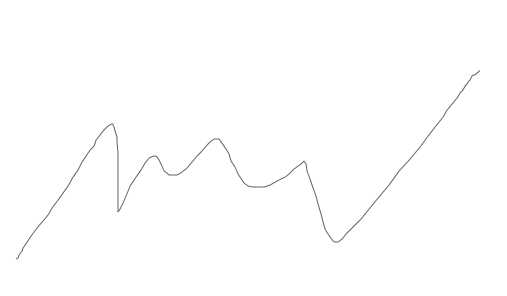
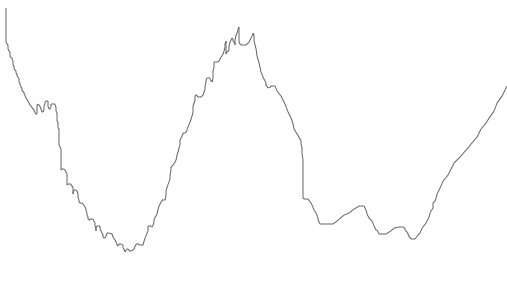
LAPERFECTO (ALMOSTWORKING) PROJECT 10

diff --git a/Linar_Sharads/UserGraphShow/KoefGraphOutput.xaml b/Linar_Sharads/UserGraphShow/KoefGraphOutput.xaml
@@ -8,35 +8,32 @@
        
         xmlns:local="clr-namespace:UserGraphShow"
         mc:Ignorable="d"
-        Title="KoefGraphOutput" Height="446" Width="726" >
-    <Grid Margin="0,0,-6,0">
+        Title="KoefGraphOutput"  >
+    <Window.Resources>
+
+        <Style x:Key="LineDataPointStyle1" TargetType="{x:Type DVC:LineDataPoint}">
+            <Setter Property="Width" Value="0"/>
+            <Setter Property="Height" Value="0"/>
+        </Style>
+
+    </Window.Resources>
+
+    <Grid>
         <Grid.ColumnDefinitions>
-            <ColumnDefinition Width="583*"/>
-            <ColumnDefinition Width="92*"/>
-            <ColumnDefinition Width="51*"/>
+            <ColumnDefinition Width="0*"/>
+            <ColumnDefinition Width="107*"/>
+            <ColumnDefinition Width="119*"/>
+            <ColumnDefinition Width="491*"/>
+            <ColumnDefinition/>
         </Grid.ColumnDefinitions>
-
-
-
-        <DVC:Chart Name="Chart" Background="Yellow" Grid.ColumnSpan="3">
-            <DVC:Chart.Series>
-                <DVC:LineSeries Title=" Your Graph" IndependentValueBinding="{Binding Path=Key}"  DependentValueBinding="{Binding Path=Value}" />
-            </DVC:Chart.Series>
-
-
-            <DVC:Chart.PlotAreaStyle>
-                <Style TargetType="Grid">
-                    <Setter Property="Background" Value="Black" />
-                </Style>
-            </DVC:Chart.PlotAreaStyle>
-
-            <!--<DVC:Chart.Axes>
-                <DVC:LinearAxis Orientation="Y" Minimum="-0,01" Maximum="0,003"/>
-                <DVC:LinearAxis Orientation="X" Maximum="260" Minimum="-5"/>
-                <DVC:LinearAxis Visibility="Hidden"/>
-            </DVC:Chart.Axes>-->
-
+        <DVC:Chart Grid.ColumnSpan="5" >
+          
+            <DVC:LineSeries 
+                        Name="Chart"
+                         IndependentValueBinding="{Binding Path=Key}"  DependentValueBinding="{Binding Path=Value}"
+                     
+                        DataPointStyle="{DynamicResource LineDataPointStyle1}"/>
         </DVC:Chart>
-        <Button x:Name="button" Content="Show" HorizontalAlignment="Left" Margin="8,10,0,0" VerticalAlignment="Top" Width="75" Grid.Column="1" Height="22" Click="button_Click"/>
+        <Button x:Name="button" Content="Button" HorizontalAlignment="Left" Margin="10,10,0,0" VerticalAlignment="Top" Width="75" Click="button_Click" Grid.Column="2" Height="22"/>
     </Grid>
 </Window>

diff --git a/Linar_Sharads/UserGraphShow/GraphOutput.xaml b/Linar_Sharads/UserGraphShow/GraphOutput.xaml
@@ -22,10 +22,17 @@
     </Window.Resources>
 
     <Grid>
-        <DVC:Chart>
-            <DVC:Chart.Axes>
-                <DVC:LinearAxis Orientation="Y" Minimum="-302" Maximum="0" Visibility="Hidden"/>
-                <DVC:LinearAxis Orientation="X" Maximum="509" Minimum="0" Visibility="Hidden"/>
+        <Grid.ColumnDefinitions>
+            <ColumnDefinition Width="0*"/>
+            <ColumnDefinition Width="107*"/>
+            <ColumnDefinition Width="119*"/>
+            <ColumnDefinition Width="491*"/>
+            <ColumnDefinition/>
+        </Grid.ColumnDefinitions>
+        <DVC:Chart Grid.ColumnSpan="5" Margin="-34,-39,-112,-40">
+            <DVC:Chart.Axes >
+                <DVC:LinearAxis Orientation="Y" Minimum="-302"  Visibility="Hidden"/>
+                <DVC:LinearAxis Orientation="X" Maximum="509"    Visibility="Hidden"/>
             </DVC:Chart.Axes>
             <DVC:LineSeries 
                         Name="Chart"
@@ -34,6 +41,6 @@
                         IndependentValuePath="X" 
                         DataPointStyle="{DynamicResource LineDataPointStyle1}"/>
         </DVC:Chart>
-        <Button x:Name="button" Content="Button" HorizontalAlignment="Left" Margin="612,30,0,0" VerticalAlignment="Top" Width="75" Click="button_Click"/>
+        <Button x:Name="button" Content="Button" HorizontalAlignment="Left" Margin="10,10,0,0" VerticalAlignment="Top" Width="75" Click="button_Click" Grid.Column="2" Height="22"/>
     </Grid>
 </Window>

diff --git a/Linar_Sharads/UserGraphShow/Painting.xaml b/Linar_Sharads/UserGraphShow/Painting.xaml
@@ -5,8 +5,8 @@
         xmlns:mc="http://schemas.openxmlformats.org/markup-compatibility/2006"
         xmlns:local="clr-namespace:UserGraphShow"
         mc:Ignorable="d"
-         ResizeMode="NoResize"
-        Title="Painting" Height="325.123" Width="534.975" >
+      
+        Title="Painting" Height="325.123" Width="534.975" MaxWidth="1000" MaxHeight="500" >
     <Grid Margin="0,0,2,-20">
         <Canvas  Name="paintSurface" MouseDown="Canvas_MouseDown_1" MouseMove="Canvas_MouseMove_1" Margin="0,0,10,10"   >
             <Canvas.Background>

diff --git a/Linar_Sharads/UserGraphShow/KoefGraphOutput.xaml.cs b/Linar_Sharads/UserGraphShow/KoefGraphOutput.xaml.cs
@@ -20,41 +20,64 @@ namespace UserGraphShow
     /// </summary>
     public partial class KoefGraphOutput : Window
     {
-        public KoefGraphOutput()
+        private List<List<float>> _list;
+
+        public KoefGraphOutput(List<int[]> b)
         {
             InitializeComponent();
+            _list = new GetUserGraphUnfoInfo().EconGraphArray(b);
+
         }
 
         private void button_Click(object sender, RoutedEventArgs e)
         {
-
-            try
+            var y = _list[0];  // array of x
+            var x = _list[1]; // array of y
+            var ls = new LineSeries
             {
-                var kek = new DrawByKoef();
-                var b = kek.XYKOEF();
-                var x = b[0];
-                var y = b[1];
-                var ls = new LineSeries
-                {
-                    IndependentValueBinding = new Binding("Key"),
-                    DependentValueBinding = new Binding("Value")
-                };
-                var a = new KeyValuePair<double, double>[GetUserGraphUnfoInfo.Pointamount];
-                for (var i = 0; i < GetUserGraphUnfoInfo.Pointamount; i++)
-                    a[i] = new KeyValuePair<double, double>(x[i], y[i]);
+                IndependentValueBinding = new Binding("Key"),
+                DependentValueBinding = new Binding("Value")
+            };
+            var a = new KeyValuePair<float, float>[x.Count - 1];
+            for (var i = 0; i < x.Count - 1; i++)
+                a[i] = new KeyValuePair<float, float>(-x[i],  y[i]);
+            ls.ItemsSource = a;
+            Chart.ItemsSource = a;
+            //try
+            //{
+            //    var kek = new DrawByKoef();
+            //    var b = kek.XYKOEF();
+            //    var x = b[0];
+            //    var y = b[1];
+            //    var ls = new LineSeries
+            //    {
+            //        IndependentValueBinding = new Binding("Key"),
+            //        DependentValueBinding = new Binding("Value")
+            //    };
+            //    var a = new KeyValuePair<double, double>[GetUserGraphUnfoInfo.Pointamount];
+            //    for (var i = 0; i < GetUserGraphUnfoInfo.Pointamount; i++)
+            //        a[i] = new KeyValuePair<double, double>(x[i], y[i]);
 
-                ls.ItemsSource = a;
-                Chart.Series.Clear();
-                Chart.Series.Add(ls);
+            //    ls.ItemsSource = a;
+            //    Chart.Series.Clear();
+            //    Chart.Series.Add(ls);
 
 
-            }
-            catch (Exception ex)
-            {
-                MessageBox.Show(ex.Message, ":(", MessageBoxButton.OKCancel, MessageBoxImage.Error);
-                this.Close();
+            //}
+            //catch (Exception ex)
+            //{
+            //    MessageBox.Show(ex.Message, ":(", MessageBoxButton.OKCancel, MessageBoxImage.Error);
+            //    this.Close();
 
-            }
+            //}
+
+            // find XY
+            // koef
+            // 
+
+
+
+
 
         }
     }

diff --git a/Linar_Sharads/Main_Logic/GraphProcessing/GetUserGraphUnfoInfo.cs b/Linar_Sharads/Main_Logic/GraphProcessing/GetUserGraphUnfoInfo.cs
@@ -172,7 +172,7 @@ namespace Main_Logic
             //return kek;
         }
 
-        public void DotaForDrawing(List<List<int>> kek)
+        public List<List<float>> DotaForDrawing(List<List<int>> kek)
         {
             var splittedList = new List<List<List<int>>>();
             Repository repository = new Repository();
@@ -201,10 +201,11 @@ namespace Main_Logic
                 listOfKoefsForDrawing.Add(new List<float>());
                 foreach (var innerItem in item)
                 {
-                    listOfKoefsForDrawing[0].Add((-310 / innerItem.Value) * item.Count);
+                    listOfKoefsForDrawing[0].Add((innerItem.Value));
                     listOfKoefsForDrawing[1].Add(z += 600 / item.Count);
                 }
             }
+            return listOfKoefsForDrawing;
         }
 
         public static double[] KoefArray(string path) //Array of Ki
@@ -216,6 +217,27 @@ namespace Main_Logic
             for (var i = 0; i < Pointamount - 1; i++)
                 k[i] = Math.Round((double) (y[i + 1] - y[i])/(double) (x[i + 1] - x[i]), 2);
             return k;
+        }
+
+        public List<List<float>> EconGraphArray(List<int[]> b)
+        {
+
+
+            var list = new List<List<int>>();
+            for (int i = 0; i < b[0].Length; i++)
+            {
+                list.Add(new List<int> { b[1][i],b[0][i] });
+            }
+            return DotaForDrawing(list);
+
+            
+
+
+            //var x = b[0];  // array of x
+            //var y = b[1]; // array of y
+
+
+
         }
     }
 }

diff --git a/Linar_Sharads/UserGraphShow/GraphOutput.xaml.cs b/Linar_Sharads/UserGraphShow/GraphOutput.xaml.cs
@@ -12,9 +12,15 @@ namespace UserGraphShow
     /// </summary>
     public partial class GraphOutput
     {
-        public GraphOutput()
+        public GraphOutput(double width,double height)
         {
             InitializeComponent();
+            //var pnlClient = this.Content as FrameworkElement;
+            ////pnlClient.Height = height;
+            ////pnlClient.Width = width;
+            //Chart.Width = width;
+            //Chart.Height = height;
+
         }
 
         private void button_Click(object sender, RoutedEventArgs e)
@@ -31,14 +37,10 @@ namespace UserGraphShow
                 var a = new KeyValuePair<int, int>[x.Length-1];
                 for (var i = 0; i < x.Length-1; i++)
                     a[i] = new KeyValuePair<int, int>(x[i], y[i]);
-
                 ls.ItemsSource = a;
-
             Chart.ItemsSource = a;
-
-
-
-
+           var kek = new KoefGraphOutput(b);
+            kek.ShowDialog();
         }
 
 

diff --git a/Linar_Sharads/Main_Logic/Comparison/ComparisonByKoef.cs b/Linar_Sharads/Main_Logic/Comparison/ComparisonByKoef.cs
@@ -45,7 +45,7 @@ namespace Main_Logic
 
             for (var i = 0; i < listOfKoefs.Count; i++)
             {
-                if (Math.Abs(listOfKoefs[i] - ListOfKoefFromDB[i]) <= 0.5)
+                if (Math.Abs(listOfKoefs[i] - ListOfKoefFromDB[i]) <= 10)
                     temp += 1;
                 else
                 {
@@ -53,9 +53,19 @@ namespace Main_Logic
                 }
             }
 
-            return
+            if (temp>=2)
+            {
+                return
                 selected.Select(t => new DATAResult { Name = t.Name, Description = t.Describtion, Link = t.WebQuery })
                     .First();
+            }
+            else
+            {
+                   throw  new ArgumentException();
+                
+            }
+
+            
         }
     }
 }

diff --git a/Linar_Sharads/UserGraphShow/Painting.xaml.cs b/Linar_Sharads/UserGraphShow/Painting.xaml.cs
@@ -57,7 +57,11 @@ namespace UserGraphShow
                 MessageBox.Show(ex.Message, ":(", MessageBoxButton.OKCancel, MessageBoxImage.Error);
                 
             }
-            var kek = new UserGraphShow.GraphOutput();
+
+            var pnlClient = this.Content as FrameworkElement;
+            if (pnlClient == null) return;
+            var kek = new GraphOutput(pnlClient.ActualWidth,pnlClient.ActualHeight);
+           // var kek2=new KoefGraphOutput();//+arrayXY
             kek.ShowDialog();
         }
 
